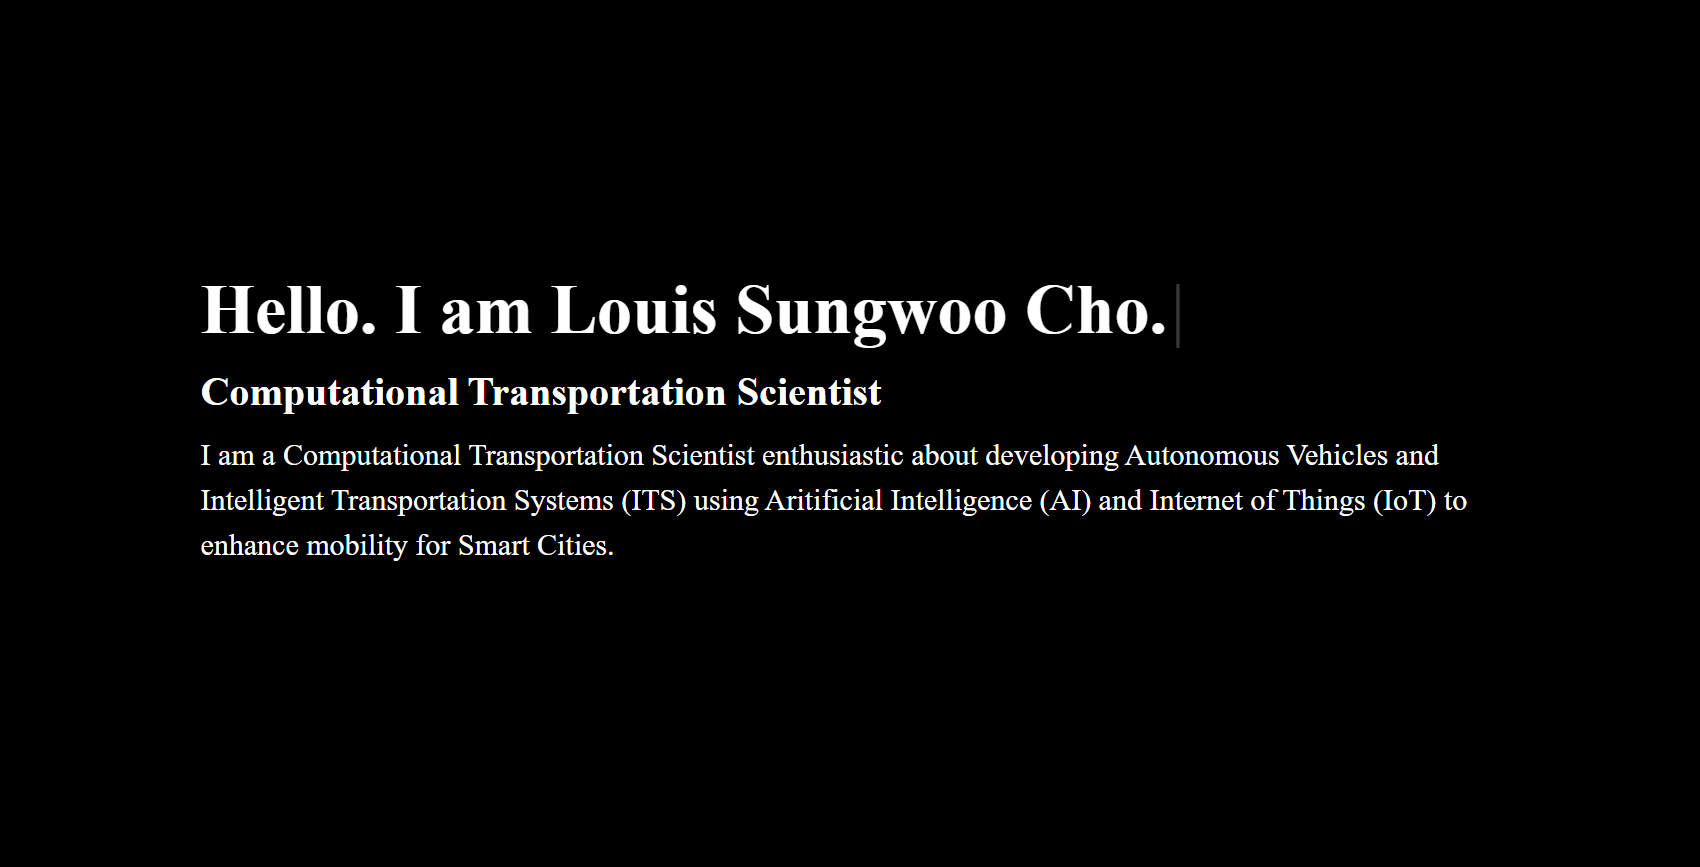
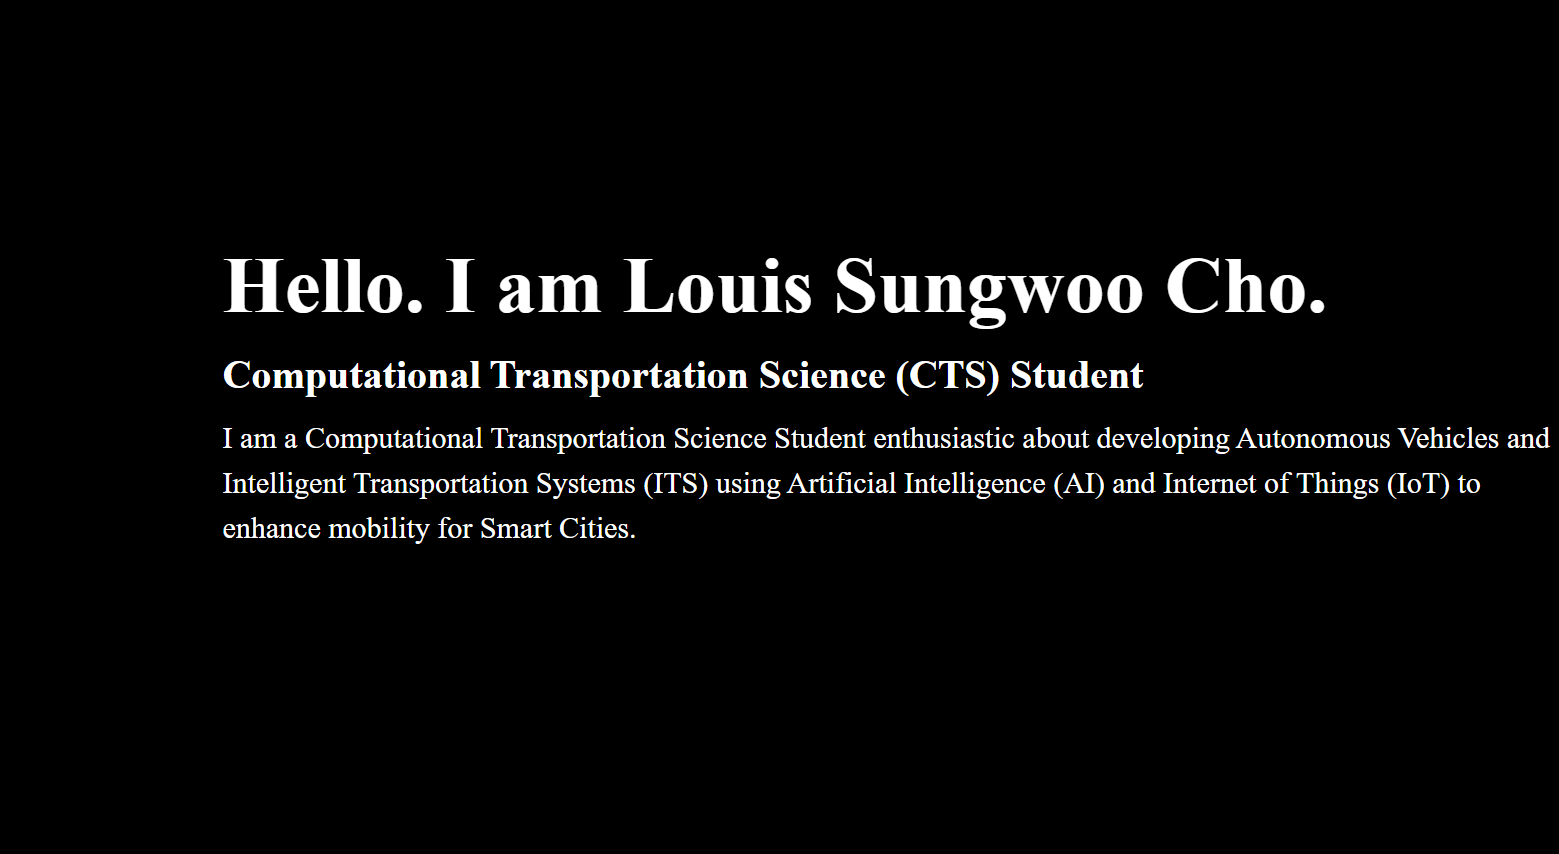
improved profile

Changed region(s): [[0.1232, 0.3044, 1.0, 0.6393]]

diff --git a/src/components/About.jsx b/src/components/About.jsx
@@ -13,13 +13,10 @@ class About extends React.Component {
                     <div className="about-bio">
                         I was born in Boston, Massachusetts and lived in the U.S for 9 years before moving to South Korea where I lived in Seoul for 11 years. I moved back to the U.S and I am currently living in Urbana, Illinois.
                         I have always been fascinated about transportation and enjoy traveling by airplanes, trains and cars.
-                        With AI and IoT enhancing our mobility, my interests in Intelligent Transportation Systems (ITS) are motion planning 
-                        algorithms using deep reinforcement learning, computer vision, and perception for autonomous vehicles, 
-                        machine learning and data science for analyzing and forecasting traffic trends, optimizing transit planning, mobile computing, wireless communication and 
-                        real time analysis for vehicle platooning. I am fluent in both English and Korean.
+                        With AI and IoT enhancing our mobility, my interests in Intelligent Transportation Systems (ITS) are motion planning and decision-making
+                        algorithms using deep reinforcement learning and computer vision for autonomous vehicles. I am fluent in both English and Korean.
                         My hobbies are listening and singing Korean pop and rap songs, eating Korean food, and watching Korean movies. 
-                        I have further plans going to graduate school to pursue my dream of becoming an innovative Computational Transportation Scientist (CTS) and mastering the concept of 
-                        motion planning for autonomous driving.
+                        I have further plans going to graduate school to pursue my dream of becoming an innovative Computational Transportation Scientist (CTS).
                     </div>
                     <div className='about-img'>
                         <img src={Louis}/>

diff --git a/src/components/Home.jsx b/src/components/Home.jsx
@@ -20,10 +20,10 @@ class Home extends React.Component {
                   
               <FadeIn delay={1000}>
                 <span className="sub-title">
-                    Computational Transportation Scientist (CTS)
+                    Computational Transportation Science (CTS) Student
                 </span>
                 <div className = "bio">
-                  I am a Computational Transportation Scientist
+                  I am a Computational Transportation Science Student
                   enthusiastic about developing Autonomous Vehicles and Intelligent Transportation Systems (ITS) 
                   using Artificial Intelligence (AI) and Internet of Things (IoT) to enhance mobility for Smart Cities.
                 </div>

diff --git a/src/components/Projects.jsx b/src/components/Projects.jsx
@@ -131,7 +131,7 @@ class Projects extends React.Component {
 
 
 
-          <div 
+          <div class = 'h-12'
           style={{ backgroundImage: `url(${web})`}}
           className='shadow-lg shadow-black group container rounded-md flex justify-center items-center mx-auto content-div'>
             

diff --git a/src/components/css/About.css b/src/components/css/About.css
@@ -35,7 +35,7 @@
 .about-bio {
     grid-row-start: 2;
     grid-row-end: 4;
-    font-size: 26px;
+    font-size: 30px;
     color: white;
 }
 
